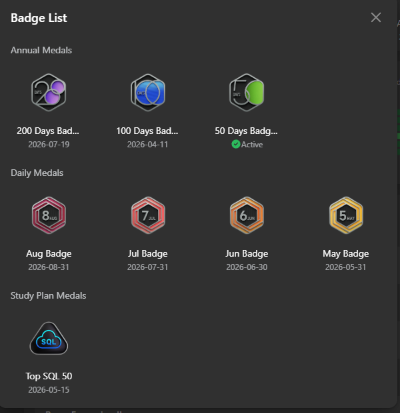
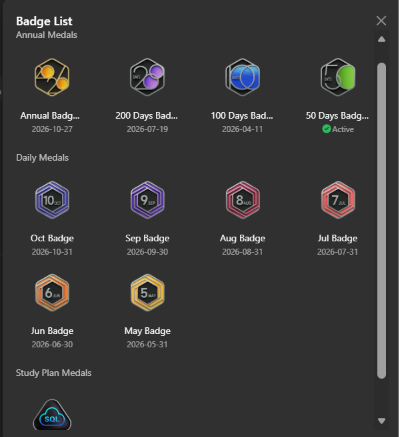
fix(achievements): update NPTEL MIS issue date to 03 Nov 2026, add new LeetCode badges, and optimize modal HUD layout

diff --git a/src/components/CertificateModal.tsx b/src/components/CertificateModal.tsx
@@ -189,14 +189,14 @@ export const CertificateModal: React.FC<CertificateModalProps> = ({ achievement,
             </div>
 
             {/* Achievement Telemetry Metadata Details */}
-            <div className="bg-black/30 p-5 sm:p-6 flex flex-col justify-between overflow-y-auto min-h-0 max-h-[85vh] lg:max-h-none">
-              <div>
+            <div className="bg-black/30 p-5 sm:p-6 flex flex-col justify-between h-full min-h-0 overflow-hidden">
+              <div className="overflow-y-auto flex-1 min-h-0 pr-1">
                 <span className="text-[10px] text-slate-500 font-mono uppercase tracking-widest">Metadata HUD</span>
                 <h3 className="text-xl font-extrabold text-white mt-1 uppercase tracking-wide">
                   {achievement.title}
                 </h3>
                 
-                <div className="mt-4 flex flex-wrap gap-2 items-center text-xs">
+                <div className="mt-3 flex flex-wrap gap-2 items-center text-xs">
                   <span className="px-2 py-0.5 rounded border border-cyan-500/20 bg-cyan-950/20 text-cyan-400 font-mono text-[10px] uppercase">
                     {achievement.category}
                   </span>
@@ -206,12 +206,12 @@ export const CertificateModal: React.FC<CertificateModalProps> = ({ achievement,
                   </span>
                 </div>
 
-                <p className="text-slate-300 text-xs mt-4 leading-relaxed font-sans border-l-2 border-purple-500/30 pl-3 py-1 bg-white/2 rounded-r-md">
+                <p className="text-slate-300 text-xs mt-3 leading-relaxed font-sans border-l-2 border-purple-500/30 pl-3 py-1 bg-white/2 rounded-r-md">
                   {achievement.description}
                 </p>
 
                 {/* Info specifications */}
-                <div className="mt-5 space-y-2.5 font-mono text-xs">
+                <div className="mt-4 space-y-2 font-mono text-xs">
                   <div className="flex justify-between items-center text-slate-400 border-b border-white/5 pb-1.5">
                     <span className="flex items-center gap-1.5"><ShieldCheck size={13} className="text-cyan-400" /> Issuer</span>
                     <span className="text-slate-200 text-right">{achievement.issuer}</span>
@@ -247,7 +247,7 @@ export const CertificateModal: React.FC<CertificateModalProps> = ({ achievement,
                 </div>
 
                 {/* Skill tags */}
-                <div className="mt-5">
+                <div className="mt-4">
                   <span className="text-[10px] text-slate-500 font-mono uppercase tracking-widest block mb-2">Verified Skill Tags</span>
                   <div className="flex flex-wrap gap-1.5">
                     {achievement.skills.map((skill) => (
@@ -263,7 +263,7 @@ export const CertificateModal: React.FC<CertificateModalProps> = ({ achievement,
               </div>
 
               {/* Verify & Download credentials button */}
-              <div className="mt-6 pt-4 border-t border-white/5 space-y-2">
+              <div className="mt-4 pt-3 border-t border-white/5 space-y-2 flex-shrink-0">
                 {achievement.image && (
                   <motion.a
                     whileHover={{ scale: 1.02 }}

diff --git a/src/data/achievementsData.ts b/src/data/achievementsData.ts
@@ -248,7 +248,7 @@ export const achievementsData: Achievement[] = [
     issuer: "IIT Kharagpur (NPTEL)",
     category: "Courses",
     subCategory: "Online Courses",
-    issueDate: "2026-10-25",
+    issueDate: "2026-11-03",
     credentialId: "NPTEL26MG129S985025019",
     skills: ["Management Information Systems", "MIS", "Enterprise Systems", "Database Management", "Information Technology Strategy"],
     description: "Successfully completed the 12-week NPTEL Online Certification course on Management Information System, funded by the MoE, Govt. of India, and coordinated by IIT Kharagpur, with an Elite consolidated score of 82%.",
@@ -2298,6 +2298,45 @@ export const achievementsData: Achievement[] = [
     place: "Participation"
   },
   // ─── BADGES ────────────────────────────────────────────────────────────────
+  {
+    id: "badge-leetcode-october-2026",
+    title: "October Daily Badge 2026",
+    issuer: "LeetCode",
+    category: "Badges",
+    subCategory: "Daily Medals",
+    issueDate: "2026-10-31",
+    skills: ["Daily Problem Solving", "Algorithms", "Consistency", "Data Structures"],
+    description: "Earned by completing the October LeetCode Daily Coding Challenge series for October 2026.",
+    image: "/certificates/leetcode_badge_list_2026.png",
+    rarity: "rare",
+    badgeIcon: "gold_star"
+  },
+  {
+    id: "badge-leetcode-annual-2026",
+    title: "Annual Badge 2026",
+    issuer: "LeetCode",
+    category: "Badges",
+    subCategory: "Annual Medals",
+    issueDate: "2026-10-27",
+    skills: ["Consistency", "Algorithms", "Data Structures", "Advanced Problem Solving", "Annual Milestone"],
+    description: "Earned on LeetCode for completing the 2026 Annual Coding challenge milestone and demonstrating year-round programming consistency.",
+    image: "/certificates/leetcode_badge_list_2026.png",
+    rarity: "legendary",
+    badgeIcon: "trophy"
+  },
+  {
+    id: "badge-leetcode-september-2026",
+    title: "September Daily Badge 2026",
+    issuer: "LeetCode",
+    category: "Badges",
+    subCategory: "Daily Medals",
+    issueDate: "2026-09-30",
+    skills: ["Daily Problem Solving", "Algorithms", "Consistency", "Data Structures"],
+    description: "Earned by completing the September LeetCode Daily Coding Challenge series for September 2026.",
+    image: "/certificates/leetcode_badge_list_2026.png",
+    rarity: "rare",
+    badgeIcon: "gold_star"
+  },
   {
     id: "badge-leetcode-august-2026",
     title: "August Daily Badge 2026",
